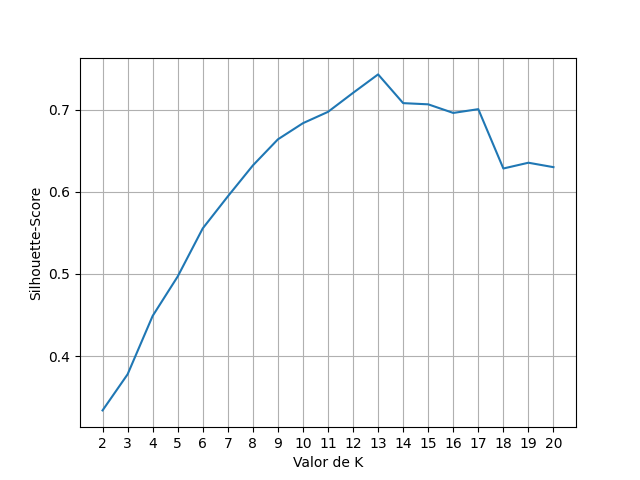
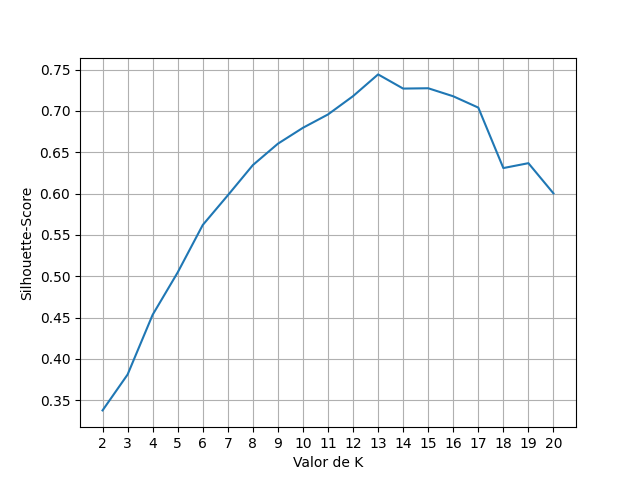
fixing

diff --git a/src/check_point4.py b/src/check_point4.py
@@ -51,6 +51,7 @@ from sklearn import metrics
 from sklearn.metrics import pairwise_distances
 from sklearn.metrics import davies_bouldin_score
 from sklearn.cluster import AgglomerativeClustering
+from sklearn import preprocessing
 class Clustering:
 
     def __init__(self, scenario):
@@ -116,33 +117,49 @@ class Clustering:
         y = array[:,arrLen]
         X = normalize(X)
         
+        print(y)
+        le = preprocessing.LabelEncoder()
+        y = le.fit_transform(y)
+        print(y)
+        
         ks = list(range(2, 21))
         
-        metric_names = ['DB-Index', 'Silhouette-Score', 'AR-Index']
+        metric_names = ['DB-Index', 'Silhouette', 'CR-Index']
         
         scores = {
-            'DB-Index': [],
-            'Silhouette-Score': [],
-            'AR-Index': []
-        }
+               'mean': {
+                       'DB-Index': [],
+                       'Silhouette': [],
+                       'CR-Index': []
+                       },
+               'std': {
+                   'DB-Index': [],
+                   'Silhouette': [],
+                   'CR-Index': []
+               }
+           }
+        
+        partScores = { 'DB-Index': [], 'Silhouette': [], 'CR-Index': []}
+        X_train, X_test, Y_train, Y_test = train_test_split(X, y, test_size=0.10, random_state=50)
         
         
-        X_train, X_test, Y_train, Y_test = train_test_split(X, y, test_size=0.30, random_state=50)
+        #print(Y_train)
         for k in ks:
-            k_means_model = KMeans(n_clusters=k, n_init=5).fit(X_train)
+            #partScores = { 'DB-Index': [], 'Silhouette': [], 'CR-Index': []}
+            
+            #for i in range(5):
+            k_means_model = KMeans(n_clusters=k, random_state=k+1).fit(X_train)
             labels = k_means_model.labels_
-            clusters = k_means_model.cluster_centers_
-            print(clusters)
-            predict_labels = k_means_model.predict(X_test)
-            
-            
-            db_index = davies_bouldin_score(X_test, predict_labels)
-            scores['DB-Index'].append(db_index)
-            silhouette_score = metrics.silhouette_score(X_test, predict_labels, metric='euclidean')
-            scores['Silhouette-Score'].append(silhouette_score)
-            labels_copy = labels[4136:7240]
-            cr_index = metrics.adjusted_rand_score(labels_copy, predict_labels)
-            scores['AR-Index'].append(cr_index)
+            print(labels)
+            #clusters = k_means_model.cluster_centers_
+            #print(clusters)
+            #predict_labels = k_means_model.predict(X_test)
+            db_index = davies_bouldin_score(X_train, labels)
+            partScores['DB-Index'].append(db_index)
+            silhouette_score = metrics.silhouette_score(X_train, labels, metric='euclidean')
+            partScores['Silhouette'].append(silhouette_score)
+            cr_index = metrics.adjusted_rand_score(Y_train, labels)
+            partScores['CR-Index'].append(cr_index)
             print('='*10)
             print('Valor de K:', k)
             print('Indíce DB:', db_index)
@@ -151,16 +168,23 @@ class Clustering:
             #print('labels:', labels)
             #print('predicted labels', predict_labels)
             #print('CR-Index:', cr_index)
-            
+            '''
+            for metric in metric_names:
+                score = partScores[metric]
+                mean = np.mean(score)
+                std = np.std(score)
+                totalScore = scores['mean'][metric].append(mean)
+                totalStd = scores['std'][metric].append(std)
+                print(f'Média: {mean} ({std})')
+            '''
             
         
         print('='*20, "Calculando Média e desvio padrão para cada índice", '='*20)
         for metric in metric_names:
-            print(metric)
-            score = scores[metric]
+            score = partScores[metric]
             mean = np.mean(score)
             std = np.std(score)
-            print(f'Média: {mean} ({std})')
+            
             #print(score)
             fig, ax = pyplot.subplots()
             ax.plot(ks, score)
@@ -187,7 +211,9 @@ class Clustering:
         X = array[:,0:arrLen]
         y = array[:,arrLen]
         X = normalize(X)
-        
+        le = preprocessing.LabelEncoder()
+        y = le.fit_transform(y)
+        print(y)
         ks = list(range(2, 21))
         
         metric_names = ['DB-Index', 'Silhouette-Score', 'AR-Index']
@@ -203,17 +229,17 @@ class Clustering:
         for k in ks:
             model = AgglomerativeClustering(n_clusters=k).fit(X_train)
             labels = model.labels_
-            clusters = model.n_clusters_
+            #clusters = model.n_clusters_
             
             predict_labels = model.fit_predict(X_test)
             
             
-            db_index = davies_bouldin_score(X_test, predict_labels)
+            db_index = davies_bouldin_score(X_train, labels)
             scores['DB-Index'].append(db_index)
-            silhouette_score = metrics.silhouette_score(X_test, predict_labels, metric='euclidean')
+            silhouette_score = metrics.silhouette_score(X_train, labels, metric='euclidean')
             scores['Silhouette-Score'].append(silhouette_score)
-            labels_copy = labels[4136:7240]
-            cr_index = metrics.adjusted_rand_score(labels_copy, predict_labels)
+            
+            cr_index = metrics.adjusted_rand_score(Y_train, labels)
             scores['AR-Index'].append(cr_index)
             print('='*10)
             print('Valor de K:', k)
@@ -246,5 +272,5 @@ class Clustering:
     
 chkp = Clustering('teste.csv')
 chkp.generateBases()
-#chkp.kmeans()
-chkp.agglomerativeClustering()
+chkp.kmeans()
+#chkp.agglomerativeClustering()
